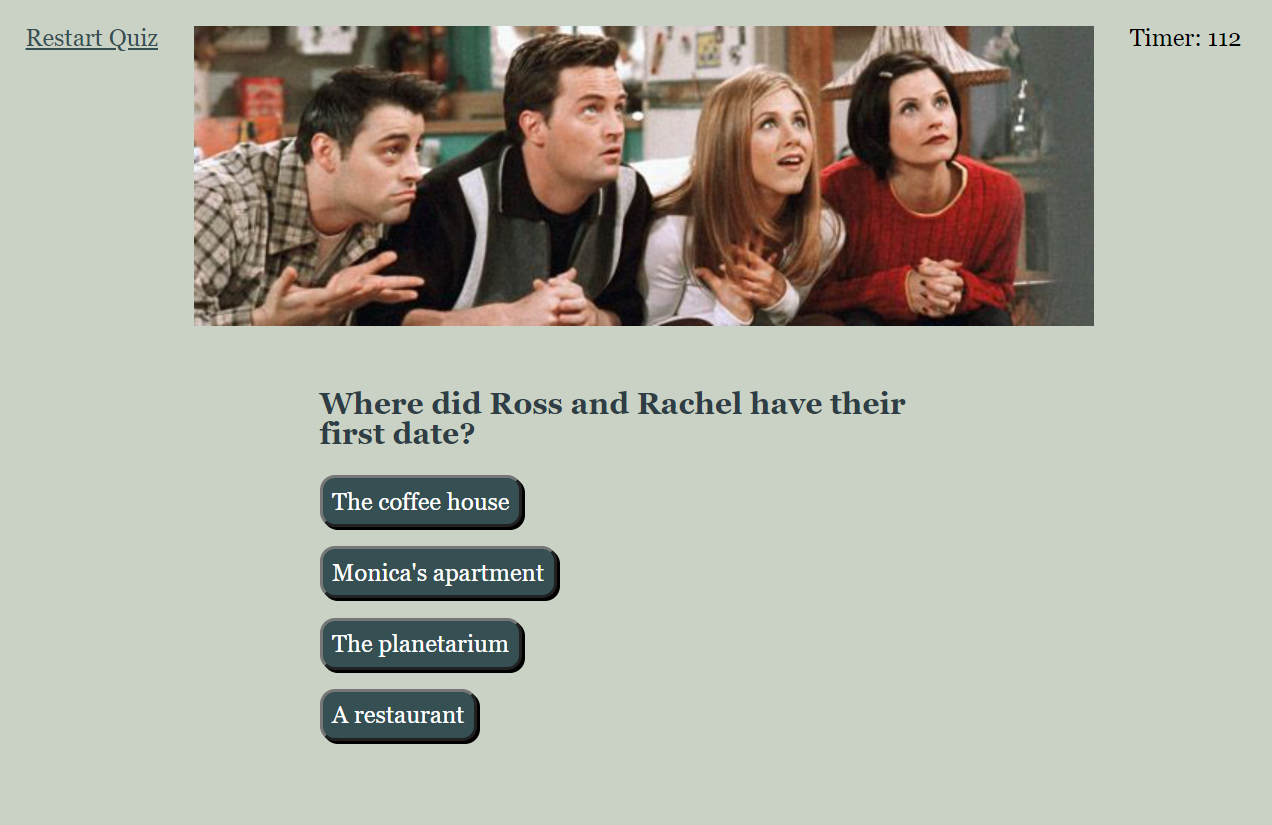
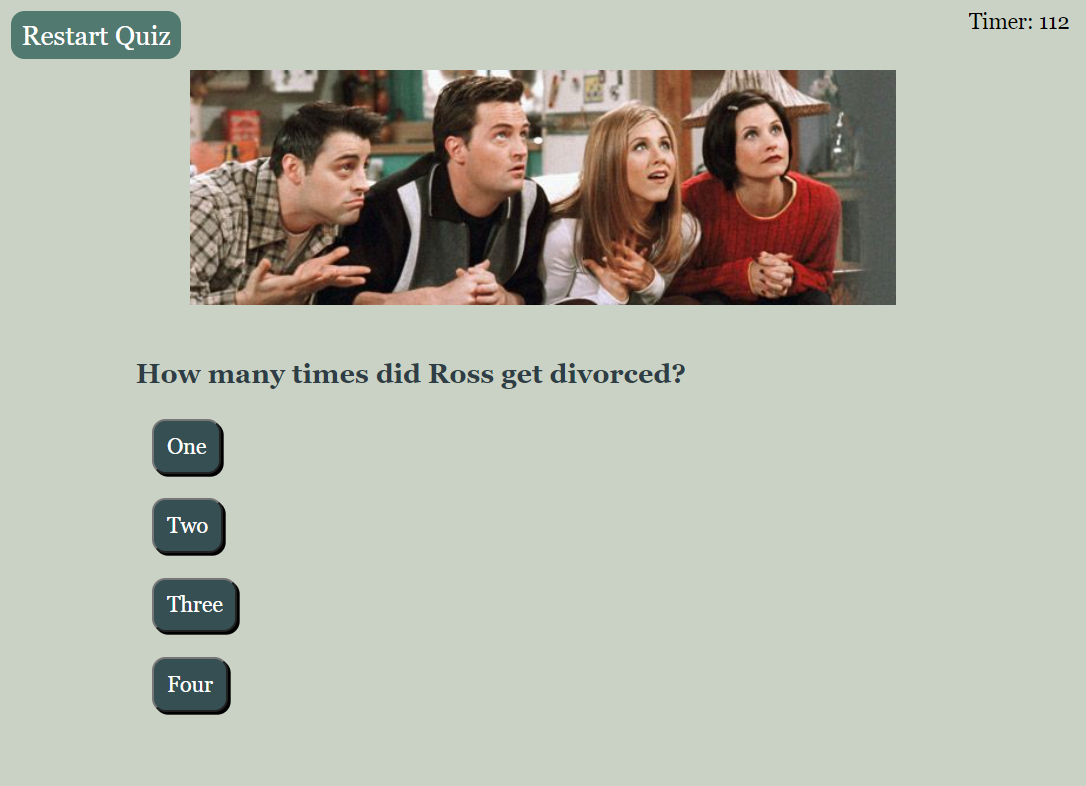
minor updates to styling

Changed region(s): [[0.0, 0.0, 0.9724, 0.3969], [0.1215, 0.458, 0.6989, 0.916]]

diff --git a/Assets/CSS/style.css b/Assets/CSS/style.css
@@ -80,7 +80,7 @@ h1[class = "visible"] {
 }
 
 .trivia-img {
-    width: 50%;
+    width: 65%;
 }
 
 h2 {
@@ -92,6 +92,8 @@ h2 {
 
 #sub-content {
     padding: 2%;
+    margin-top: 3%;
+    margin-bottom: 3%;
     text-align: center;
     width: 70%;
     color: var(--dark-slate-grey);
@@ -171,7 +173,7 @@ width: 15%;
     }
 
     .trivia-img {
-        width: 50%;
+        width: 65%;
     }
 
     #main-content-head {

diff --git a/README.md b/README.md
@@ -30,7 +30,7 @@ Key features of the quiz include:
 
 [Friends Trivia Quiz: Are You A Superfan?](https://leighdahlin.github.io/leigh-dahlin-homework4/)
 
-## Screenshot
+## Screenshots
 
 ![Screenshot of Start Page](Assets/JPEGs/trivia-start-page.png)
 ![Screenshot of Question Page](/Assets/JPEGs/trivia-question-page.png)
